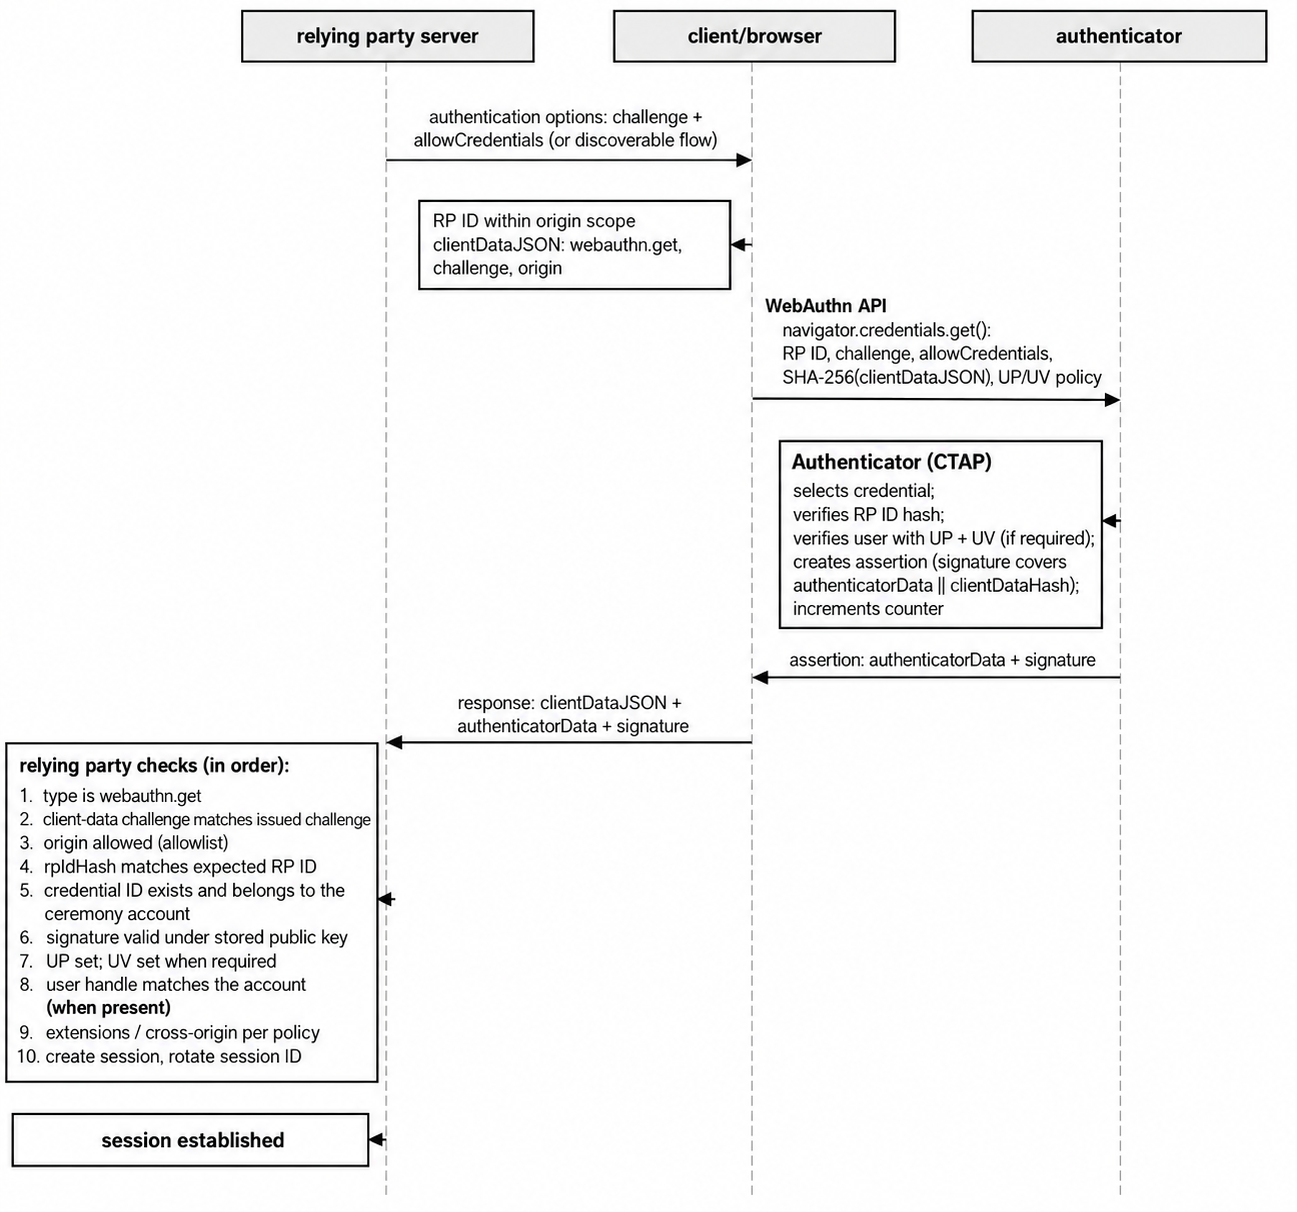
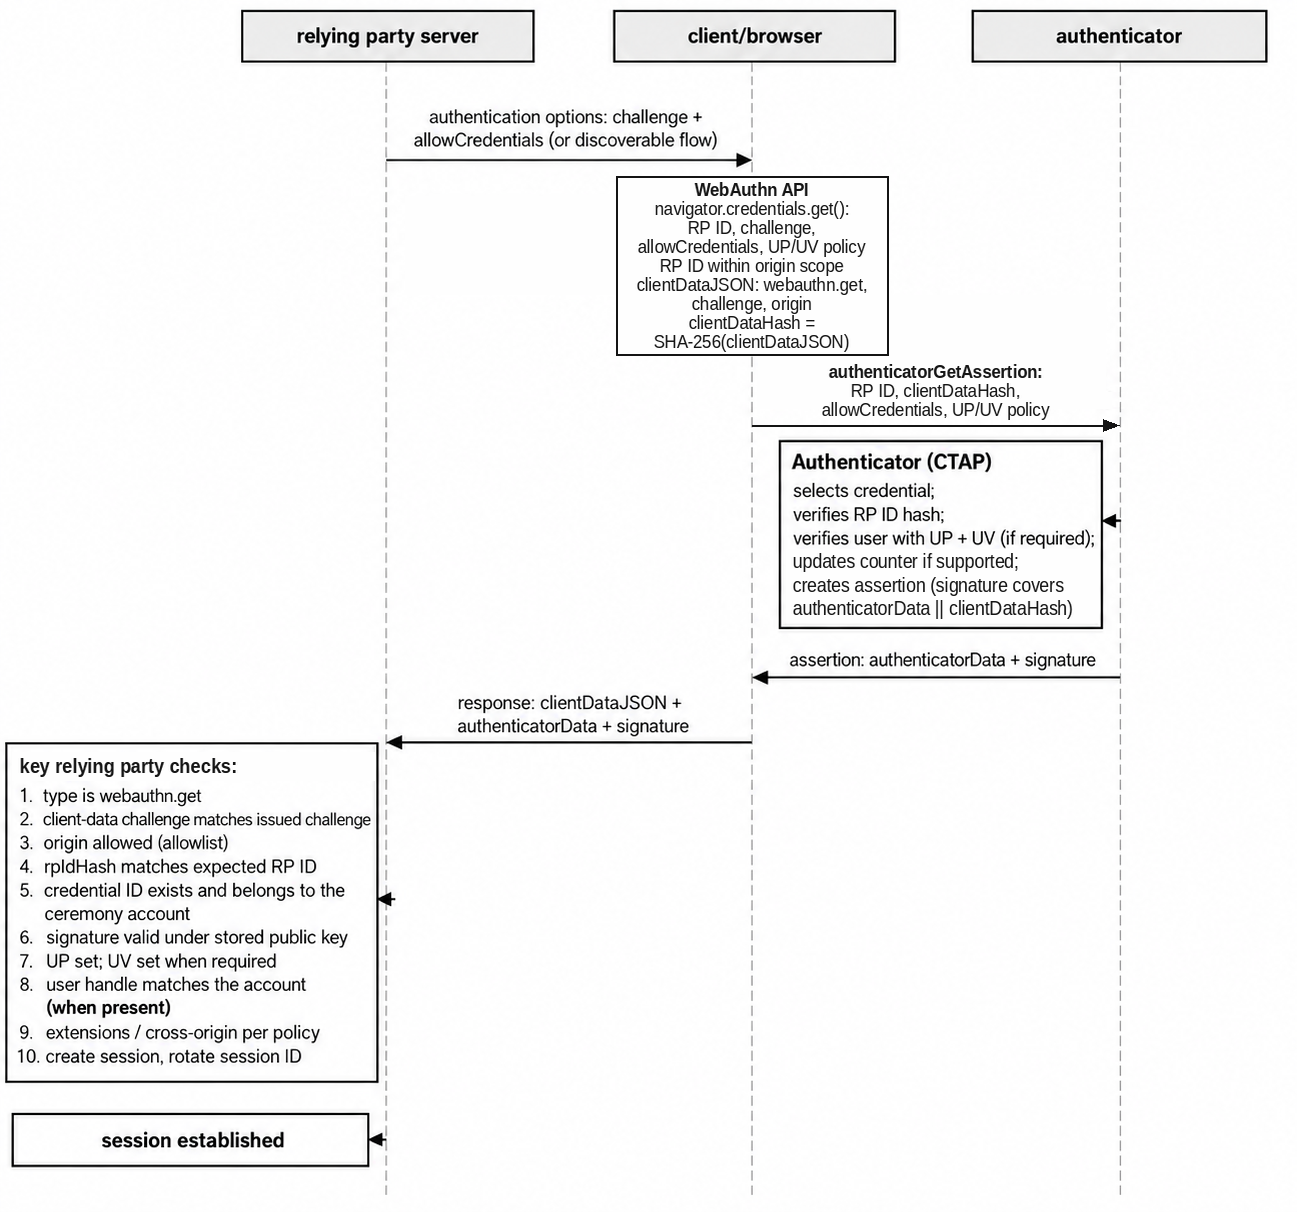
Update passkey ceremony diagrams

Changed region(s): [[0.3084, 0.1526, 0.8635, 0.3663], [0.6168, 0.4579, 0.8327, 0.519], [0.0, 0.6106, 0.2159, 0.6411]]

diff --git a/cheatsheets/Passkey_Security_Cheat_Sheet.md b/cheatsheets/Passkey_Security_Cheat_Sheet.md
@@ -87,7 +87,7 @@ Include the account's existing credential IDs in `excludeCredentials` when possi
 
 ### Verify the Registration Response
 
-The following diagram shows which party performs each check and in what order.
+The following diagram summarizes the key checks and which party performs them.
 
 ![Registration ceremony sequence diagram](../assets/Passkey_Security_Cheat_Sheet_Registration_Ceremony.png)
 
@@ -132,7 +132,7 @@ Conditional mediation can improve passkey discovery and coexist with password fi
 
 ### Verify the Authentication Response
 
-The following diagram shows which party performs each check and in what order.
+The following diagram summarizes the key checks and which party performs them.
 
 ![Authentication ceremony sequence diagram](../assets/Passkey_Security_Cheat_Sheet_Authentication_Ceremony.png)
 
